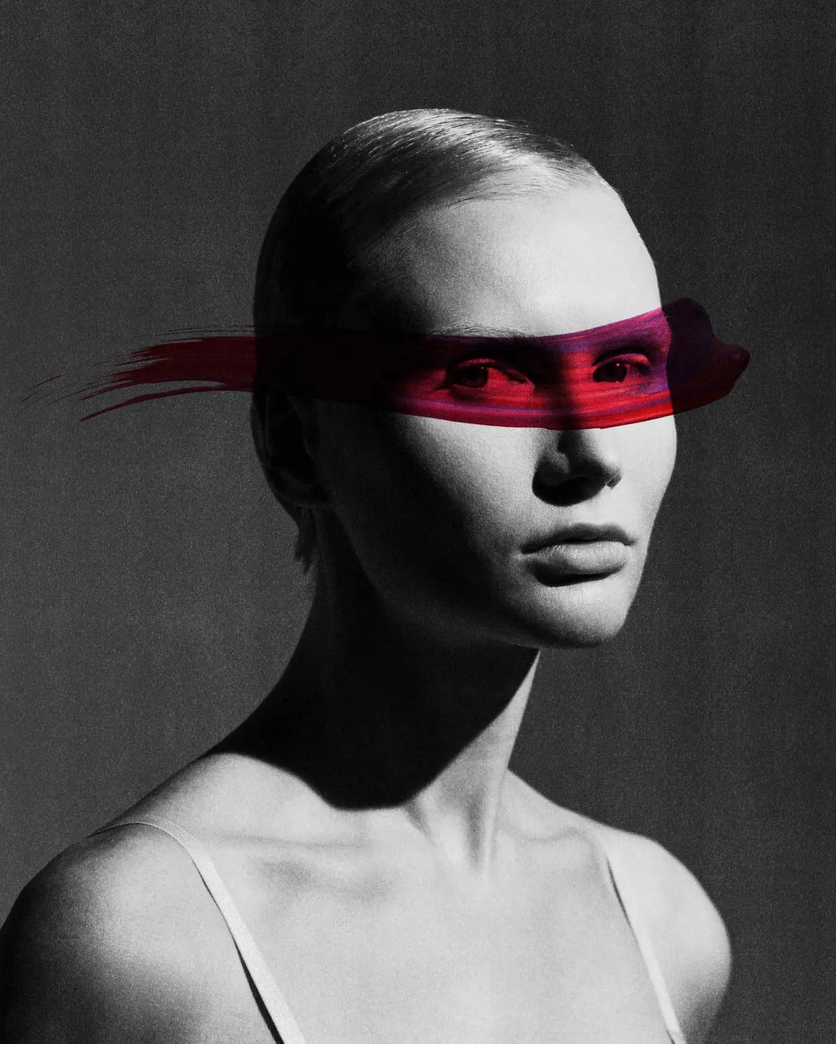
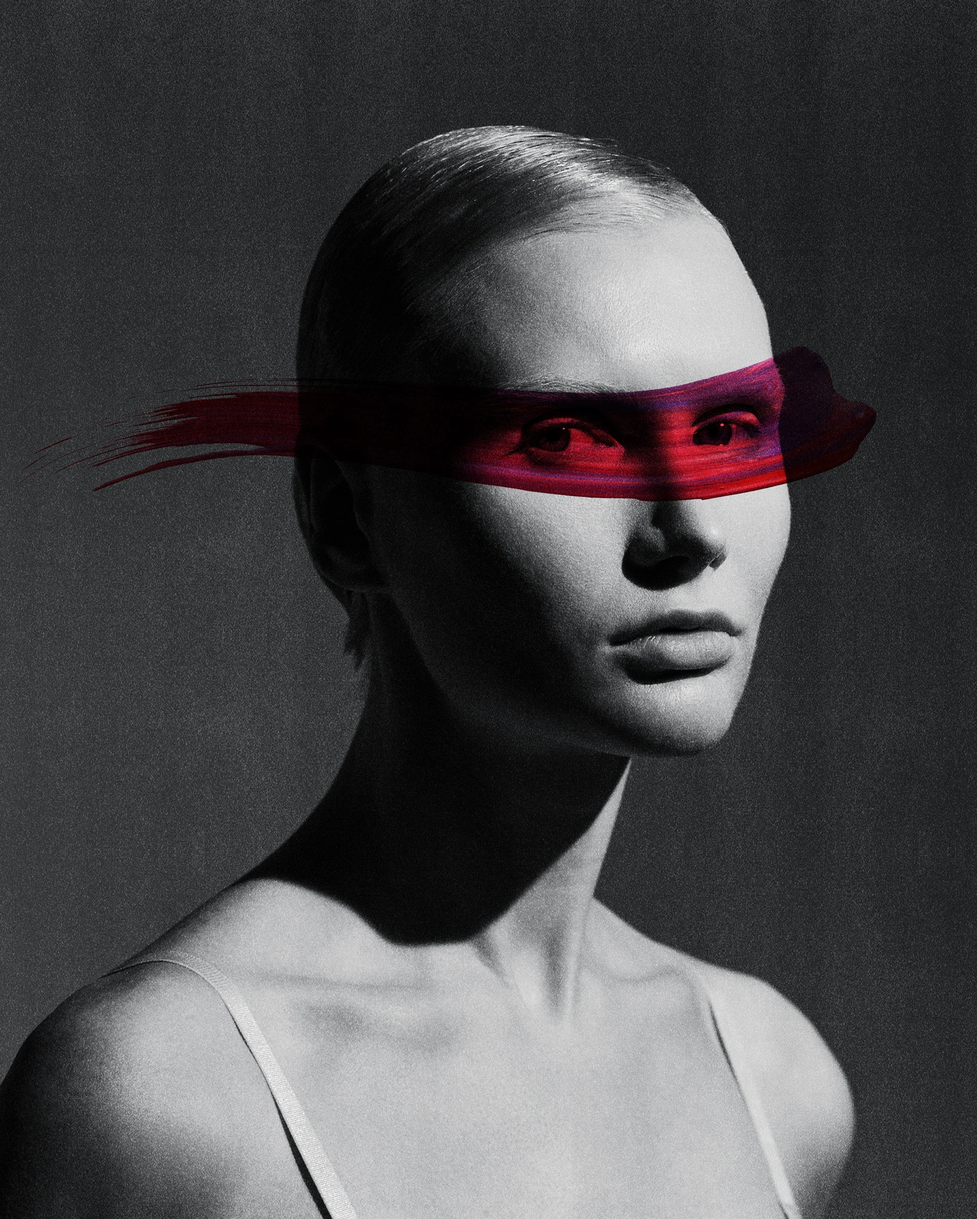
change img on main-page, fix path for assets

diff --git a/scripts/main.js b/scripts/main.js
@@ -29,6 +29,33 @@ document.addEventListener("DOMContentLoaded", function () {
 });
 
 document.addEventListener("DOMContentLoaded", function () {
+  const textElement = document.querySelector(".show__content .beauty__text-ru");
+  const imgElement = document.querySelector(".show__img");
+
+  function checkOverlap() {
+    const textRect = textElement.getBoundingClientRect();
+    const imgRect = imgElement.getBoundingClientRect();
+
+    const overlap = !(
+      textRect.right < imgRect.left ||
+      textRect.left > imgRect.right ||
+      textRect.bottom < imgRect.top ||
+      textRect.top > imgRect.bottom
+    );
+
+    if (overlap) {
+      textElement.style.color = "var(--c-light-grey)";
+    } else {
+      textElement.style.color = "var(--c-black-hover)";
+    }
+
+    requestAnimationFrame(checkOverlap);
+  }
+
+  checkOverlap();
+});
+
+document.addEventListener("DOMContentLoaded", function () {
   const showSection = document.querySelector(".show");
   const showImg = document.querySelector(".show__img");
   const manifestSection = document.querySelector(".manifest");

diff --git a/styles/menu.css b/styles/menu.css
@@ -20,7 +20,7 @@
 }
 
 .menu-container {
-  background-color: var(--c-white);
+  background-color: var(--c-black);
   align-self: center;
   max-width: 45vw;
   height: 45vw;
@@ -32,7 +32,7 @@
   opacity: 0;
   transform: scale(0.8);
   transition: all 0.6s cubic-bezier(0.65, 0, 0.35, 1);
-  filter: drop-shadow(0 0 47px rgba(103, 103, 94, 0.7));
+  filter: drop-shadow(0 0 47px rgba(0, 0, 0, 0.7));
   will-change: transform, opacity, filter;
   aspect-ratio: 1/1;
 }
@@ -55,7 +55,7 @@
 
 .menu-link {
   color: white;
-  text-shadow: rgb(58, 51, 51) 10.6772px 2.14723px 48px;
+  text-shadow: rgb(255, 255, 255) 10.6772px 2.14723px 48px;
   font-size: 3vw;
   /* font-family: "Poppins", sans-serif; */
   font-weight: 300;

diff --git a/styles/main-page/manifest.css b/styles/main-page/manifest.css
@@ -35,7 +35,8 @@
 .manifest__photo {
   width: 100%;
   height: 560px;
-  background: url("/assets/img/main/Levan.webp") center/cover no-repeat;
+  background: url("/panasyuk_page/assets/img/main/levan.webp") center/cover
+    no-repeat;
   display: flex;
   justify-content: start;
   align-items: start;

diff --git a/index.html b/index.html
@@ -18,7 +18,7 @@
       rel="stylesheet"
     /> -->
     <link rel="stylesheet" href="index.css" />
-    <script src="script.js" defer></script>
+    <script src="scripts/main.js" defer></script>
   </head>
   <body>
     <div class="menu-modal" aria-hidden="true">

diff --git a/styles/main-page/show.css b/styles/main-page/show.css
@@ -50,7 +50,7 @@
   max-width: 62%;
   height: auto;
   position: absolute;
-  top: 75%;
+  top: 88%;
   right: 0;
   translate: 0 -50%;
   /* left: 500px; */
